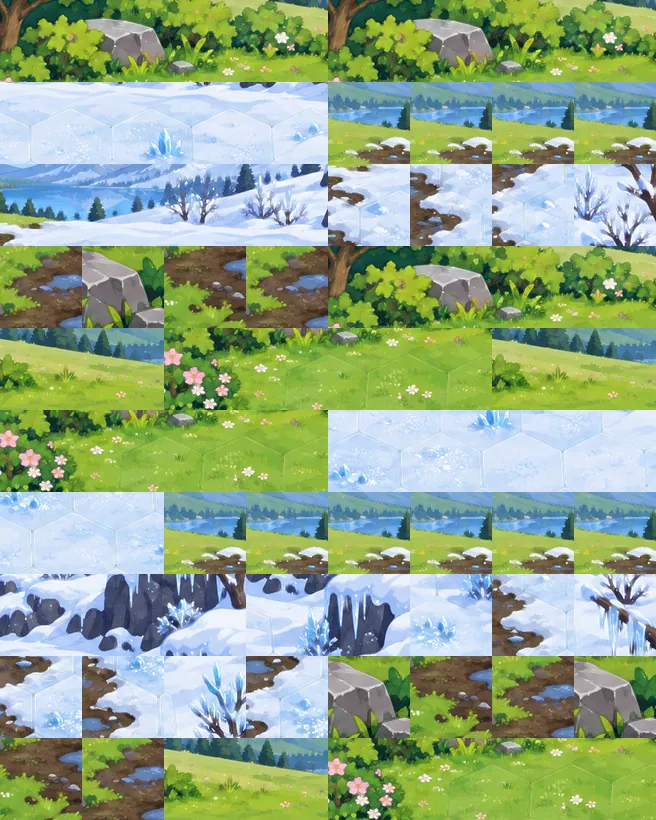
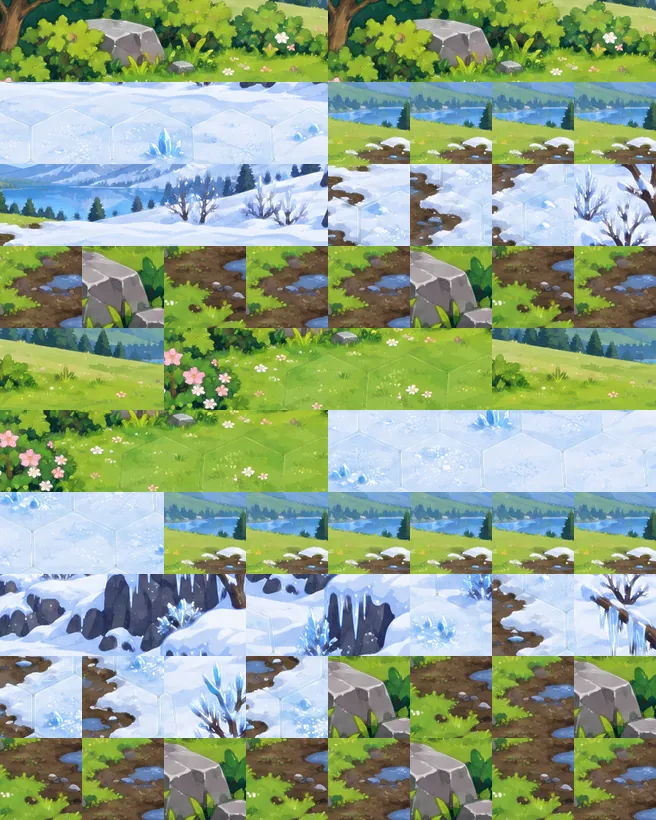
road→mud: дорожные клетки листа перестали быть травой (T-341)
Претензия «дороги не применились» была правдой по существу: раскладка
атласа требует биом road, а в доноре дорожного тона нет, и прошлая
реализация молча клала на его место траву — полотно и декаль
MapRenderer.paint_roads в игре с листом не читались.

- scripts/slice_kit_atlas.py: подмена SUBSTITUTE = road→mud — глина
  (утоптанное полотно) ближе к дороге, чем трава; она же попадает в
  отчёт gaps.biomes_substituted, чтобы пробел не прятался за заменой.
  Песок подменить нечем — он остаётся травой и в biomes_without_tone.
- Лист пересобран: 80 клеток размещено, 10 road — глина, 10 sand —
  трава. На живом экране adventure_ui.tscn с MAP_KIT=1 полосы дорог
  читаются тропой с гравийной жилкой.
- Проверки --self-test: 10 → 14 (подмена, подмена в отчёте, песок
  обязан оставаться пробелом).
- docs: T-341 — пункт (2) закрыт наполовину (road да, sand нет),
  SCENE-SLICE-MEASURE — числа и разбор кадра, PROVENANCE — строка
  листа, CHANGELOG — почему подмена, а не новый донор.

Проверено локально: --self-test 14/14; pytest scripts/test_slice_kit_atlas.py
2 passed; check_docs_links OK; check_asset_provenance 995/995 exit 0.
GdUnit не затронут (изменены только генератор ассета и документация).

Changed region(s): [[0.2439, 0.8841, 1.0, 1.0], [0.4878, 0.2744, 1.0, 0.4268]]

diff --git a/scripts/slice_kit_atlas.py b/scripts/slice_kit_atlas.py
@@ -3,10 +3,12 @@
 
 Донор — кадр из `game/data/config/scene_slices.json` с принятой геометрией сот
 (`cell_fit.accepted`: T-339). Каждая клетка решётки внутри игровой области
-становится тайлом `tile × tile`, классифицируется по тону и получает адрес в
-манифесте. Дальше лист живёт как обычный атлас: `KitAtlas` строит из него
-гекс-тайлсет, `MapRenderer.paint_kit` кладёт тайлы в клетки карты по совпадению
-тона (из кадра в рантайм уходит только тон клетки: семантики биома в нём нет).
+становится тайлом `tile × tile`, классифицируется по тону и складывается в
+**раскладку существующего атласа** (`--layout=…world_map_atlas.json`): сетку, id и
+роли клеток диктует манифест атласа, из кадра приходит только поверхность. Рантайм
+при этом не меняется ни на строку: тот же `TileAtlas`, а лист поднимает
+`MAP_KIT=1` (`TileAtlas.sheet_path()`, T-341); без `--layout` получается
+собственная упаковка кадра — только для глазного вердикта, в игру она не идёт.
 
 Координаты решётки берутся из **реестра**, а не пересчитываются здесь: один
 источник геометрии с приёмкой T-339, иначе лист разъедется с числом, по которому
@@ -29,6 +31,7 @@ from __future__ import annotations
 import argparse
 import hashlib
 import json
+import tempfile
 from pathlib import Path
 
 import numpy as np
@@ -41,6 +44,13 @@ KIT_DEFAULT = Path.home() / "Downloads/battlefield"
 ## Тон тайла — имена биомов атласа (`TileAtlas.BIOME_NAMES`), иначе рантайм
 ## будет искать «green» там, где рендер знает «grass».
 TONES = ("snow", "water", "sand", "rock", "swamp", "mud", "grass")
+
+## Биомы раскладки, у которых в кадре-доноре нет своего тона, но есть близкий.
+## «Дорога» атласа — утоптанное полотно (её же рисует декаль покрытия в
+## `MapRenderer.paint_roads`), а глинистая тропа в доноре есть; без подмены
+## дорожные клетки и декаль легли бы травой. Песок подменить нечем — он остаётся
+## травой и ездит в отчёте как пробел (T-341).
+SUBSTITUTE = {"road": "mud"}
 
 
 def lab(a: np.ndarray) -> np.ndarray:
@@ -227,9 +237,14 @@ def layout_sheet(
     sheet = np.zeros((rows * tile, cols * tile, 3), dtype=np.uint8)
     placed: list[dict] = []
     missing: list[str] = []
+    substituted: dict[str, str] = {}
     for cell in spec["cells"]:
         biome = str(cell["biome"])
         pool = by_tone.get(biome)
+        if not pool and SUBSTITUTE.get(biome) in by_tone:
+            sub = SUBSTITUTE[biome]
+            substituted[biome] = sub
+            pool = by_tone[sub]
         if not pool:
             if biome not in missing:
                 missing.append(biome)
@@ -241,7 +256,7 @@ def layout_sheet(
         sheet[y * tile : (y + 1) * tile, x * tile : (x + 1) * tile] = tiles[src]
         placed.append({"id": cell["id"], "tone": tones[src]})
     _save(sheet, path)
-    return placed, {"biomes_without_tone": missing}
+    return placed, {"biomes_without_tone": missing, "biomes_substituted": substituted}
 
 
 def self_test() -> int:
@@ -283,6 +298,24 @@ def self_test() -> int:
     plate = base.copy()
     plate[11:13, :] = 25  # нарисованный контур клетки
     dev = int(np.abs(strip_lines(plate).astype(np.int16) - base.astype(np.int16)).max())
+    # Подмена тона в раскладке: у дороги своего тона в наборе нет, и она обязана
+    # взять глину, а не траву (иначе дорожное полотно в игре невидимо).
+    with tempfile.TemporaryDirectory() as tmp:
+        t = Path(tmp)
+        (t / "layout.json").write_text(json.dumps({
+            "tile": 24, "grid": [2, 1],
+            "cells": [
+                {"id": "base_road_0", "kind": "base", "biome": "road", "atlas": [0, 0]},
+                {"id": "base_sand_0", "kind": "base", "biome": "sand", "atlas": [1, 0]},
+            ],
+        }))
+        probe_tiles = [
+            np.full((24, 24, 3), (120, 90, 60), np.uint8),  # глина
+            np.full((24, 24, 3), colors["grass"], np.uint8),
+        ]
+        probe, gaps = layout_sheet(
+            t / "layout.json", probe_tiles, ["mud", "grass"], 24, t / "sheet.webp"
+        )
     checks = [
         ("тон воды", tone_of(np.array(colors["water"], np.uint8).reshape(1, 1, 3)), "water"),
         ("тон песка", tone_of(np.array(colors["sand"], np.uint8).reshape(1, 1, 3)), "sand"),
@@ -294,6 +327,10 @@ def self_test() -> int:
         ("адрес row-major", manifest["cells"][4]["atlas"], [1, 1]),
         ("тайл квадратный", tuple(tiles[0].shape), (tile, tile, 3)),
         ("следов от линии (>12)", int(dev > 12), 0),
+        ("дорога берёт глину", probe[0]["tone"], "mud"),
+        ("подмена в отчёте", gaps["biomes_substituted"], {"road": "mud"}),
+        ("песок без тона — трава", probe[1]["tone"], "grass"),
+        ("пробел в отчёте", gaps["biomes_without_tone"], ["sand"]),
     ]
     bad = 0
     for name, got_v, want_v in checks:
@@ -378,8 +415,9 @@ def main() -> int:
     if args.layout:
         print(
             "РАСКЛАДКА "
-            f"{args.layout}: размещено {len(placed)} клеток, биомов без своего тона: "
-            f"{json.dumps(gaps['biomes_without_tone'], ensure_ascii=False)}"
+            f"{args.layout}: размещено {len(placed)} клеток, подменено "
+            f"{json.dumps(gaps['biomes_substituted'], ensure_ascii=False)}, биомов без "
+            f"своего тона: {json.dumps(gaps['biomes_without_tone'], ensure_ascii=False)}"
         )
     print(f"MANIFEST {meta}: донор {digest[:12]}")
     return 0

diff --git a/game/assets/PROVENANCE.md b/game/assets/PROVENANCE.md
@@ -46,7 +46,7 @@ date: 2026-10-29
 | `game/assets/objects/world_map_threat.webp` | конвейер репо `scripts/gen_map_art.py` (категория `threat`, world-map-art-variety 8.1) | 3 носителя тира вражеских стэков 82 px (кольца 1/2/3); comfyui/image-clone, seed'ы в `image-clone/map/MANIFEST.json` | права на модель Krea-2 turbo не проверялись | жёлтый |
 | `game/assets/tiles/` | не установлено — `44c5513b` (2026-09-03) | 1 png тайла | записей нет | неизвестно |
 | `game/assets/tiles/world_map_atlas.webp` | конвейер репо `scripts/gen_map_art.py` (world-map-art-variety) | comfyui/image-clone: 8 биомов × 4 варианта базы + 6 декалей границ на биом, 82 px; материал 1024² → зашивка шва → полоса M | права на модель Krea-2 turbo не проверялись | жёлтый |
-| `game/assets/tiles/world_map_kit.webp` | `scripts/slice_kit_atlas.py` из кадра комплекта владельца (sha256 `126aa81801…`, геометрия сот — `game/data/config/scene_slices.json`, T-339) | те же 8×10 клеток и те же id, что у `world_map_atlas`; заполнение — клетки кадра по тону, контур сот снят (D-310); резервный лист, носитель не выбран (T-341) | тот же комплект, что у атласа: права на модель не проверялись | жёлтый |
+| `game/assets/tiles/world_map_kit.webp` | `scripts/slice_kit_atlas.py` из кадра комплекта владельца (sha256 `126aa81801…`, геометрия сот — `game/data/config/scene_slices.json`, T-339) | те же 8×10 клеток и те же id, что у `world_map_atlas`; заполнение — клетки кадра по тону, контур сот снят (D-310); тон дороги — подмена глиной (дорожного тона в доноре нет), песок подменить нечем; в игре лист поднимается `MAP_KIT=1` (`TileAtlas.sheet_path()`), резервный носитель, выбор не сделан (T-341) | тот же комплект, что у атласа: права на модель не проверялись | жёлтый |
 | `game/assets/ui/` | AI-генерация референса 04; `17e75cf4` как конверсия jpeg из «image-очереди» | `main_menu_bg.webp` 1920×1080 | права на генерацию не проверялись | жёлтый — перегенерация с чистой палитрой (UI-4) |
 | `game/assets/ui/backgrounds/battle_meadow.png` | прислано владельцем 2026-10-28 (`~/Downloads/Interface_battle/1793181620465-…png`) | 1 png 1920×1080 — луг БЕЗ собственной гекс-сетки; носитель поля боя (`BattleView.FIELD_ART`, T-269 → (б)) | права на генерацию не проверялись; носитель предоставлен владельцем | жёлтый |
 | `game/assets/ui/backgrounds/battle_snow.png` | передан владельцем 2026-10-27 (канон-арт, строка 01 `reference/INDEX.md`, md5 `f1f95b670d41e9f838cd16c72d8ee7cd`) | png 1679×937 — задний план снежного поля боя (`BattleView.BIOMES`, D-283) | происхождение и права на генерацию не проверялись | жёлтый |

diff --git a/docs/mvp/SCENE-SLICE-MEASURE.md b/docs/mvp/SCENE-SLICE-MEASURE.md
@@ -305,7 +305,8 @@ python3 scripts/slice_kit_atlas.py --sha 126aa81801 --max-tiles 0 \
 
 Числа донора `126aa81801…` (фит T-339: 94 клетки, остаток 0.67 px, покрытие 0.91):
 182 клетки в игре, тонов — трава 87, снег 52, вода 19, скала 20, глина 3, болото 1;
-80 клеток атласа размещено, биомов без своего тона — **sand, road**. Контур сот
+80 клеток атласа размещено, подмена — `road → mud` (10 клеток), биомов без своего
+тона — **sand** (10 клеток, легли травой). Контур сот
 снят до резки (`strip_lines`, политика «удалить» из Q-M135 → (б), D-310): без него
 тайл приносил в игру контур чужой решётки.
 
@@ -332,3 +333,11 @@ python3 scripts/slice_kit_atlas.py --sha 126aa81801 --max-tiles 0 \
 (трава с цветами, тропами и валунами прямо в текстуре плитки), а контур видимой
 области — ступенчатым: у листа нет ни переходов, ни альфы по краю соты. Это T-341,
 а не поломка подмены.
+
+Дорожное полотно (`MapRenderer.paint_roads` берёт декали из клеток `road_*`).
+Пока дорожные клетки подменялись травой, дорога в игре с листом не читалась
+вовсе — тот самый упрёк «дороги не применились». С подменой `road → mud` в том же
+кадре полосы дорог видны глинистыми тропами с гравийной жилкой, а не травой.
+Проверка числами: `placed` манифеста — 10 клеток `road` в тоне `mud`, 10 клеток
+`sand` в тоне `grass`; `--self-test` (14 проверок) держит и подмену, и то, что
+пробел не потерялся (песок обязан остаться в `biomes_without_tone`).

diff --git a/docs/CHANGELOG.md b/docs/CHANGELOG.md
@@ -9,6 +9,20 @@ date: 2026-11-09
 
 # CHANGELOG — docs/
 
+## 2026-11-09 — дорожные клетки листа — глиной: полотно видно в игре (T-341)
+
+**Что.** В `scripts/slice_kit_atlas.py` добавлена подмена тонов раскладки
+(`SUBSTITUTE = {"road": "mud"}`): у дороги своего тона в доноре нет, а глинистая
+тропа есть. Лист пересобран: 10 клеток `road` — глина вместо травы, декаль
+`MapRenderer.paint_roads` на живом экране читается тропой, а не газоном.
+**Почему подменой, а не новым донором.** Дорога — утоптанное полотно, глина из
+того же кадра ближе к ней, чем трава; новый донор не решает ни переходов, ни
+песка, а стоимость — ещё один прогон приёмки.
+**Числа.** Пробел сократился с `sand, road` до `sand` (10 клеток); проверок
+`--self-test` 10 → 14 (подмена, отчёт о подмене, песок обязан оставаться в
+пробеле). Тестов `+0` — проверки легли в существующий `--self-test`.
+**Незакрыто.** `sand`; переходы и деревья внутри ткани (T-341, пункты 1 и 3).
+
 ## 2026-11-09 — резервный лист поднимается в живом экране по `MAP_KIT` (T-341, 4.4)
 
 **Что.** `TileAtlas.sheet_path()` — единственная точка, где рантайм решает, каким
